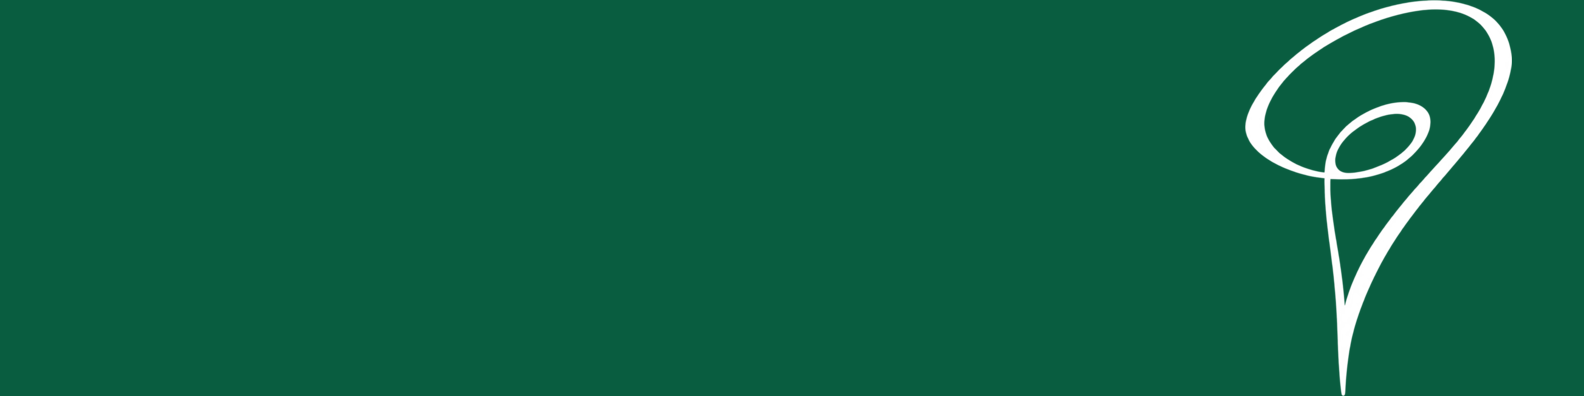
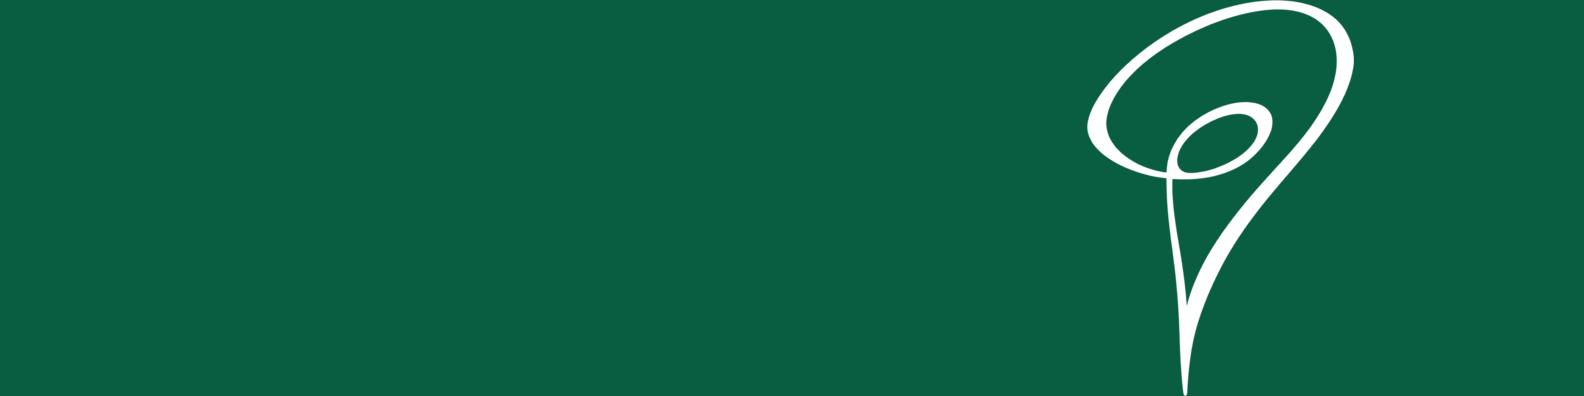
Bandeaux LinkedIn : marque recentrée vers l'intérieur
La marque était calée au bord droit ; elle est désormais centrée sur
x 1220, soit 77 % de la largeur, d'après les repères tracés sur la
maquette annotée (x 1097 et 1342). Elle garde la hauteur pleine du cadre
et continue donc de toucher le haut et le bas.

Le format page entreprise reprend la même position relative.

Claude-Session: https://claude.ai/code/session_01YWLb9Z9M2u6wfKtujPjGGU

Changed region(s): [[0.6806, 0.0, 0.959, 1.0], [0.7115, 0.0909, 0.7424, 0.1818]]

diff --git a/brand/README.md b/brand/README.md
@@ -53,4 +53,10 @@ convert -size 1584x396 xc:'#095D40' /tmp/m.png -gravity East -geometry +72+0 -co
 ```
 
 La hauteur de la marque (`-resize x396`) vaut celle du bandeau : c'est ce qui la
-fait toucher le haut et le bas. La marge droite (`+72`) l'écarte du bord.
+fait toucher le haut et le bas.
+
+Le placement horizontal est donné en coordonnée absolue
+(`-gravity NorthWest -geometry +1087+0`) : la marque est **centrée sur x 1220**,
+soit 77 % de la largeur. Pour la déplacer, changez ce 1087 — c'est le bord
+gauche, la marque faisant 267 px de large à cette hauteur. Le format entreprise
+reprend la même position relative (bord gauche à 804 sur 1128).
